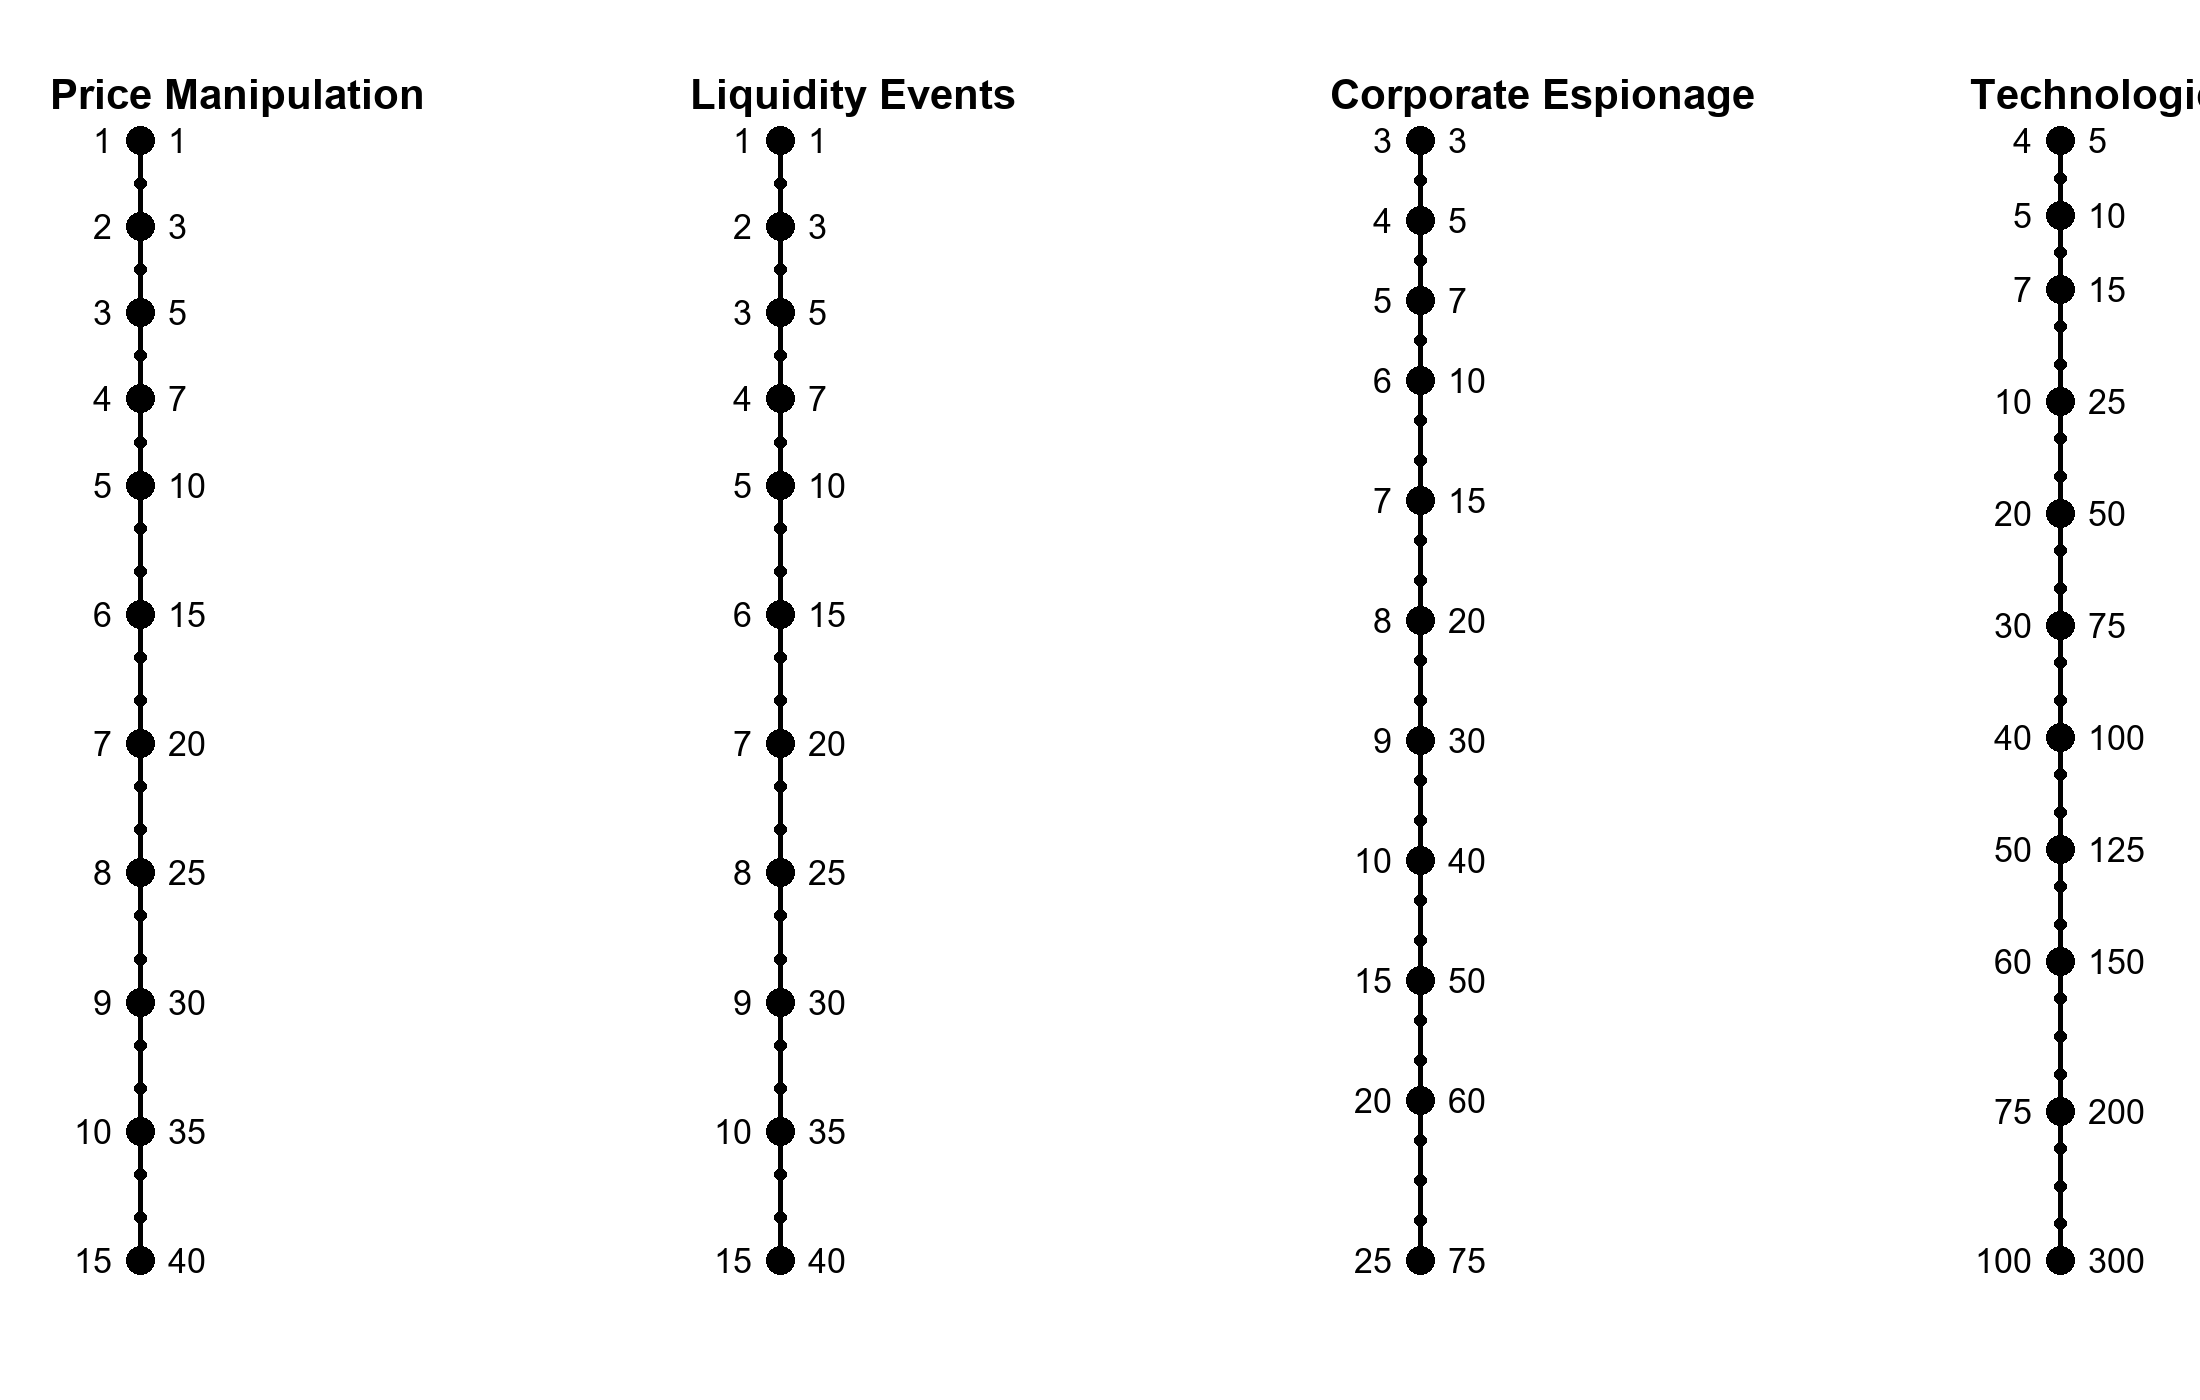
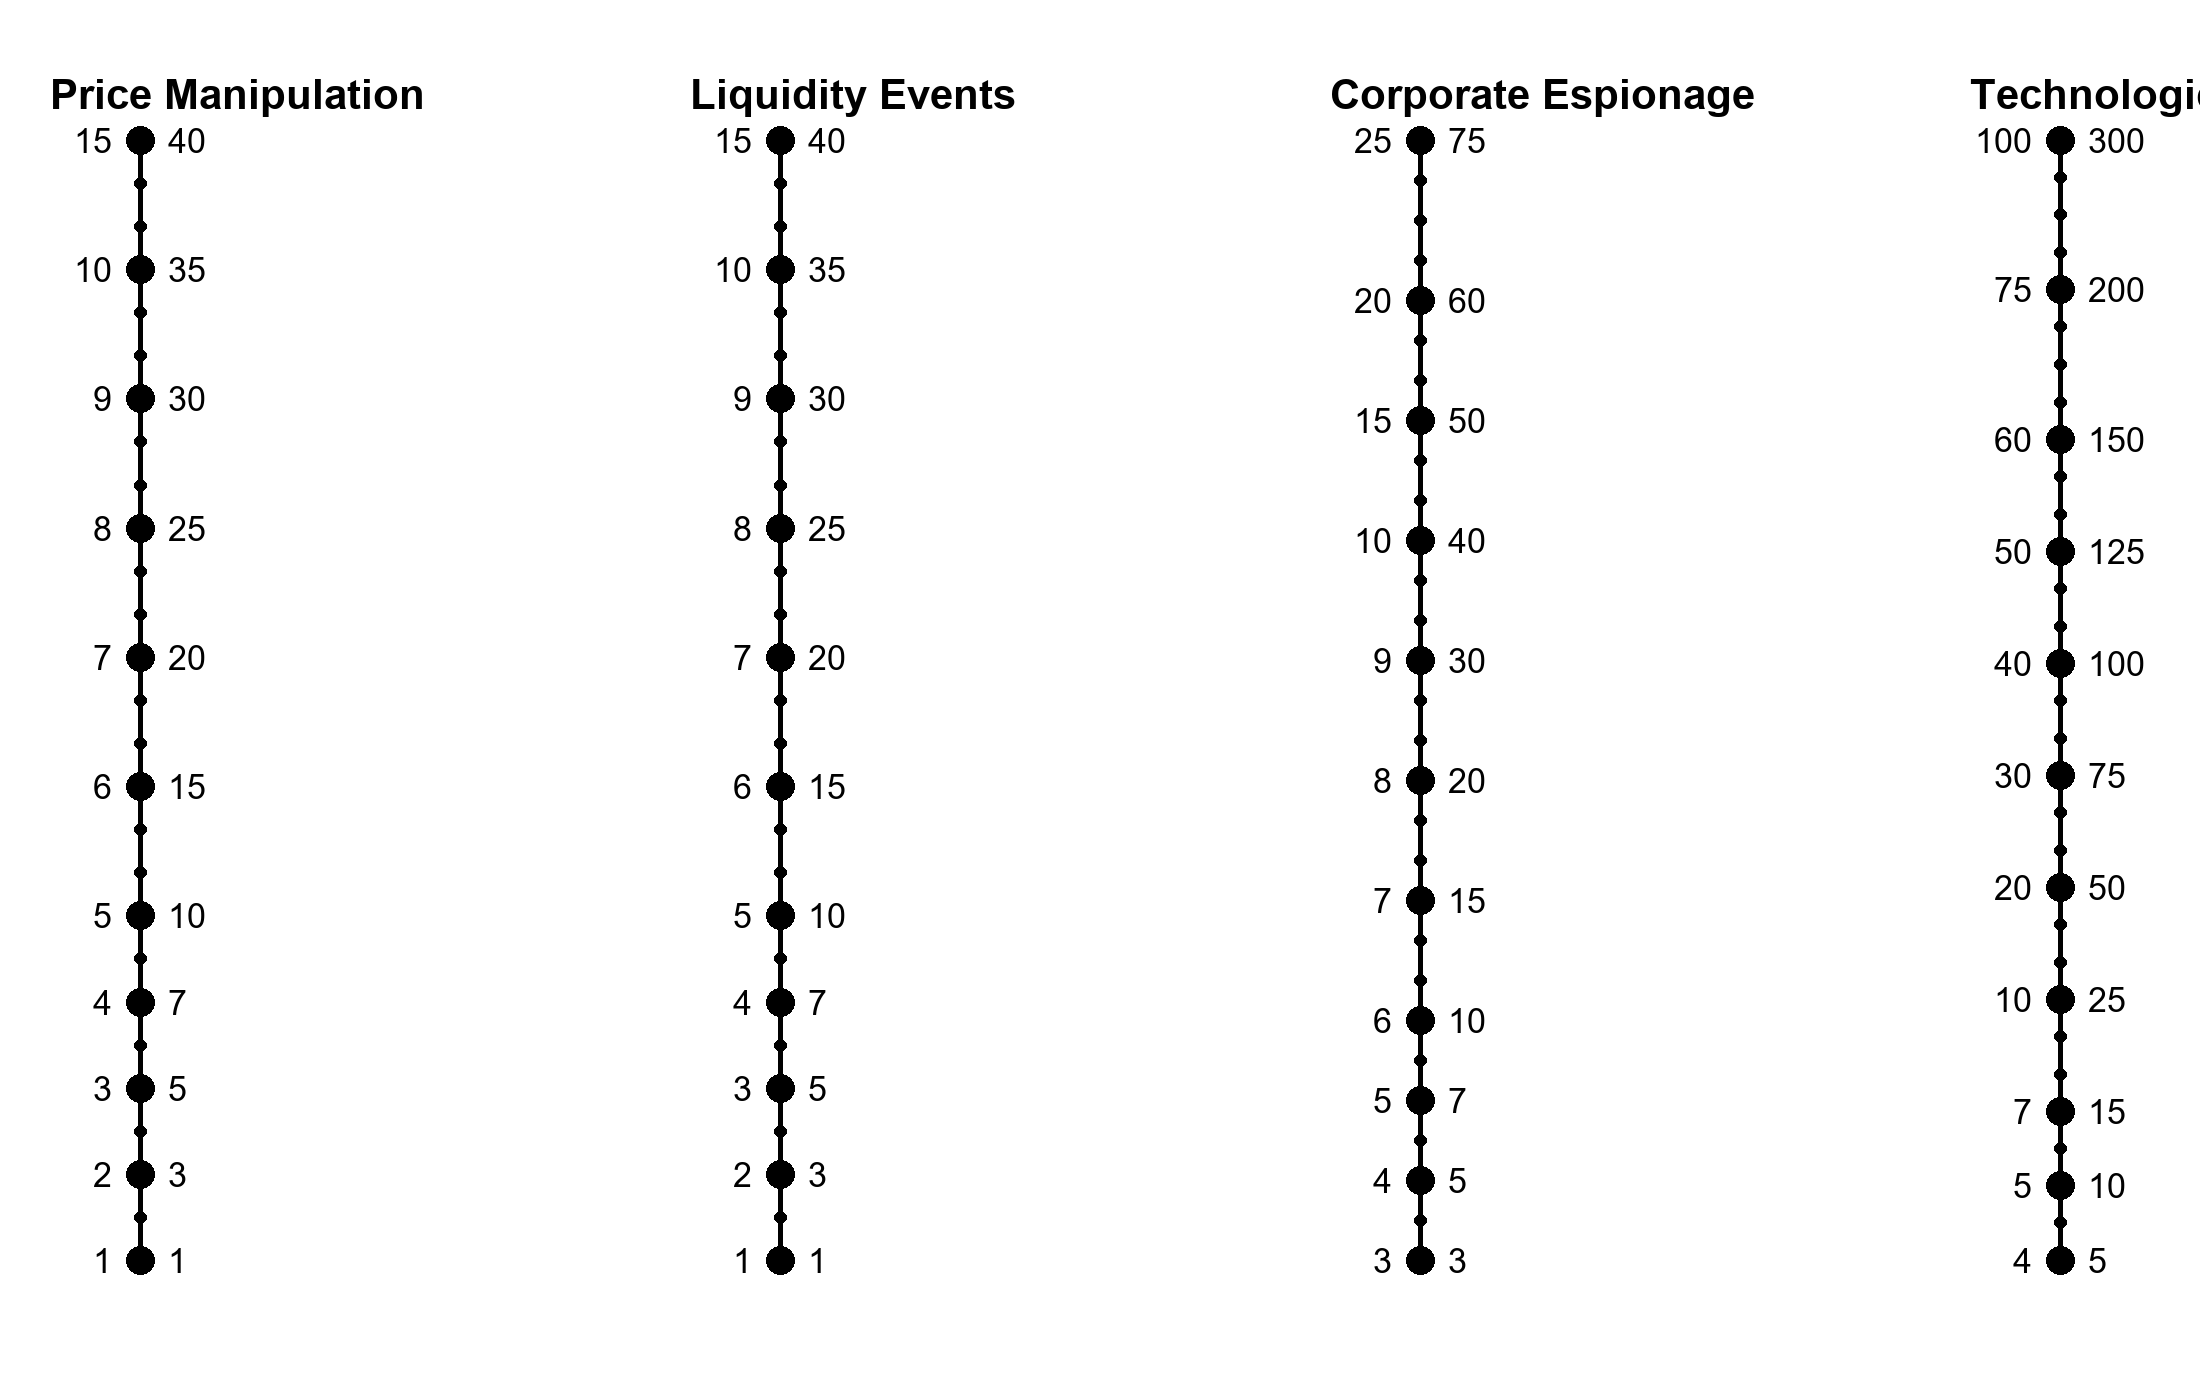
Make price tracks go up instead of down

diff --git a/generate_price_tracks.py b/generate_price_tracks.py
@@ -218,6 +218,10 @@ def generate_price_tracks() -> None:
 
         big_ys = compute_tier_positions_y(tiers, y_top, y_bottom)
 
+        # Flip Y positions so higher numeric values appear at the top
+        # (reflect positions within the available vertical range).
+        big_ys = [int(round(y_top + y_bottom - y)) for y in big_ys]
+
         for i, (y, tier) in enumerate(zip(big_ys, tiers)):
             # Big dot
             draw.ellipse(
